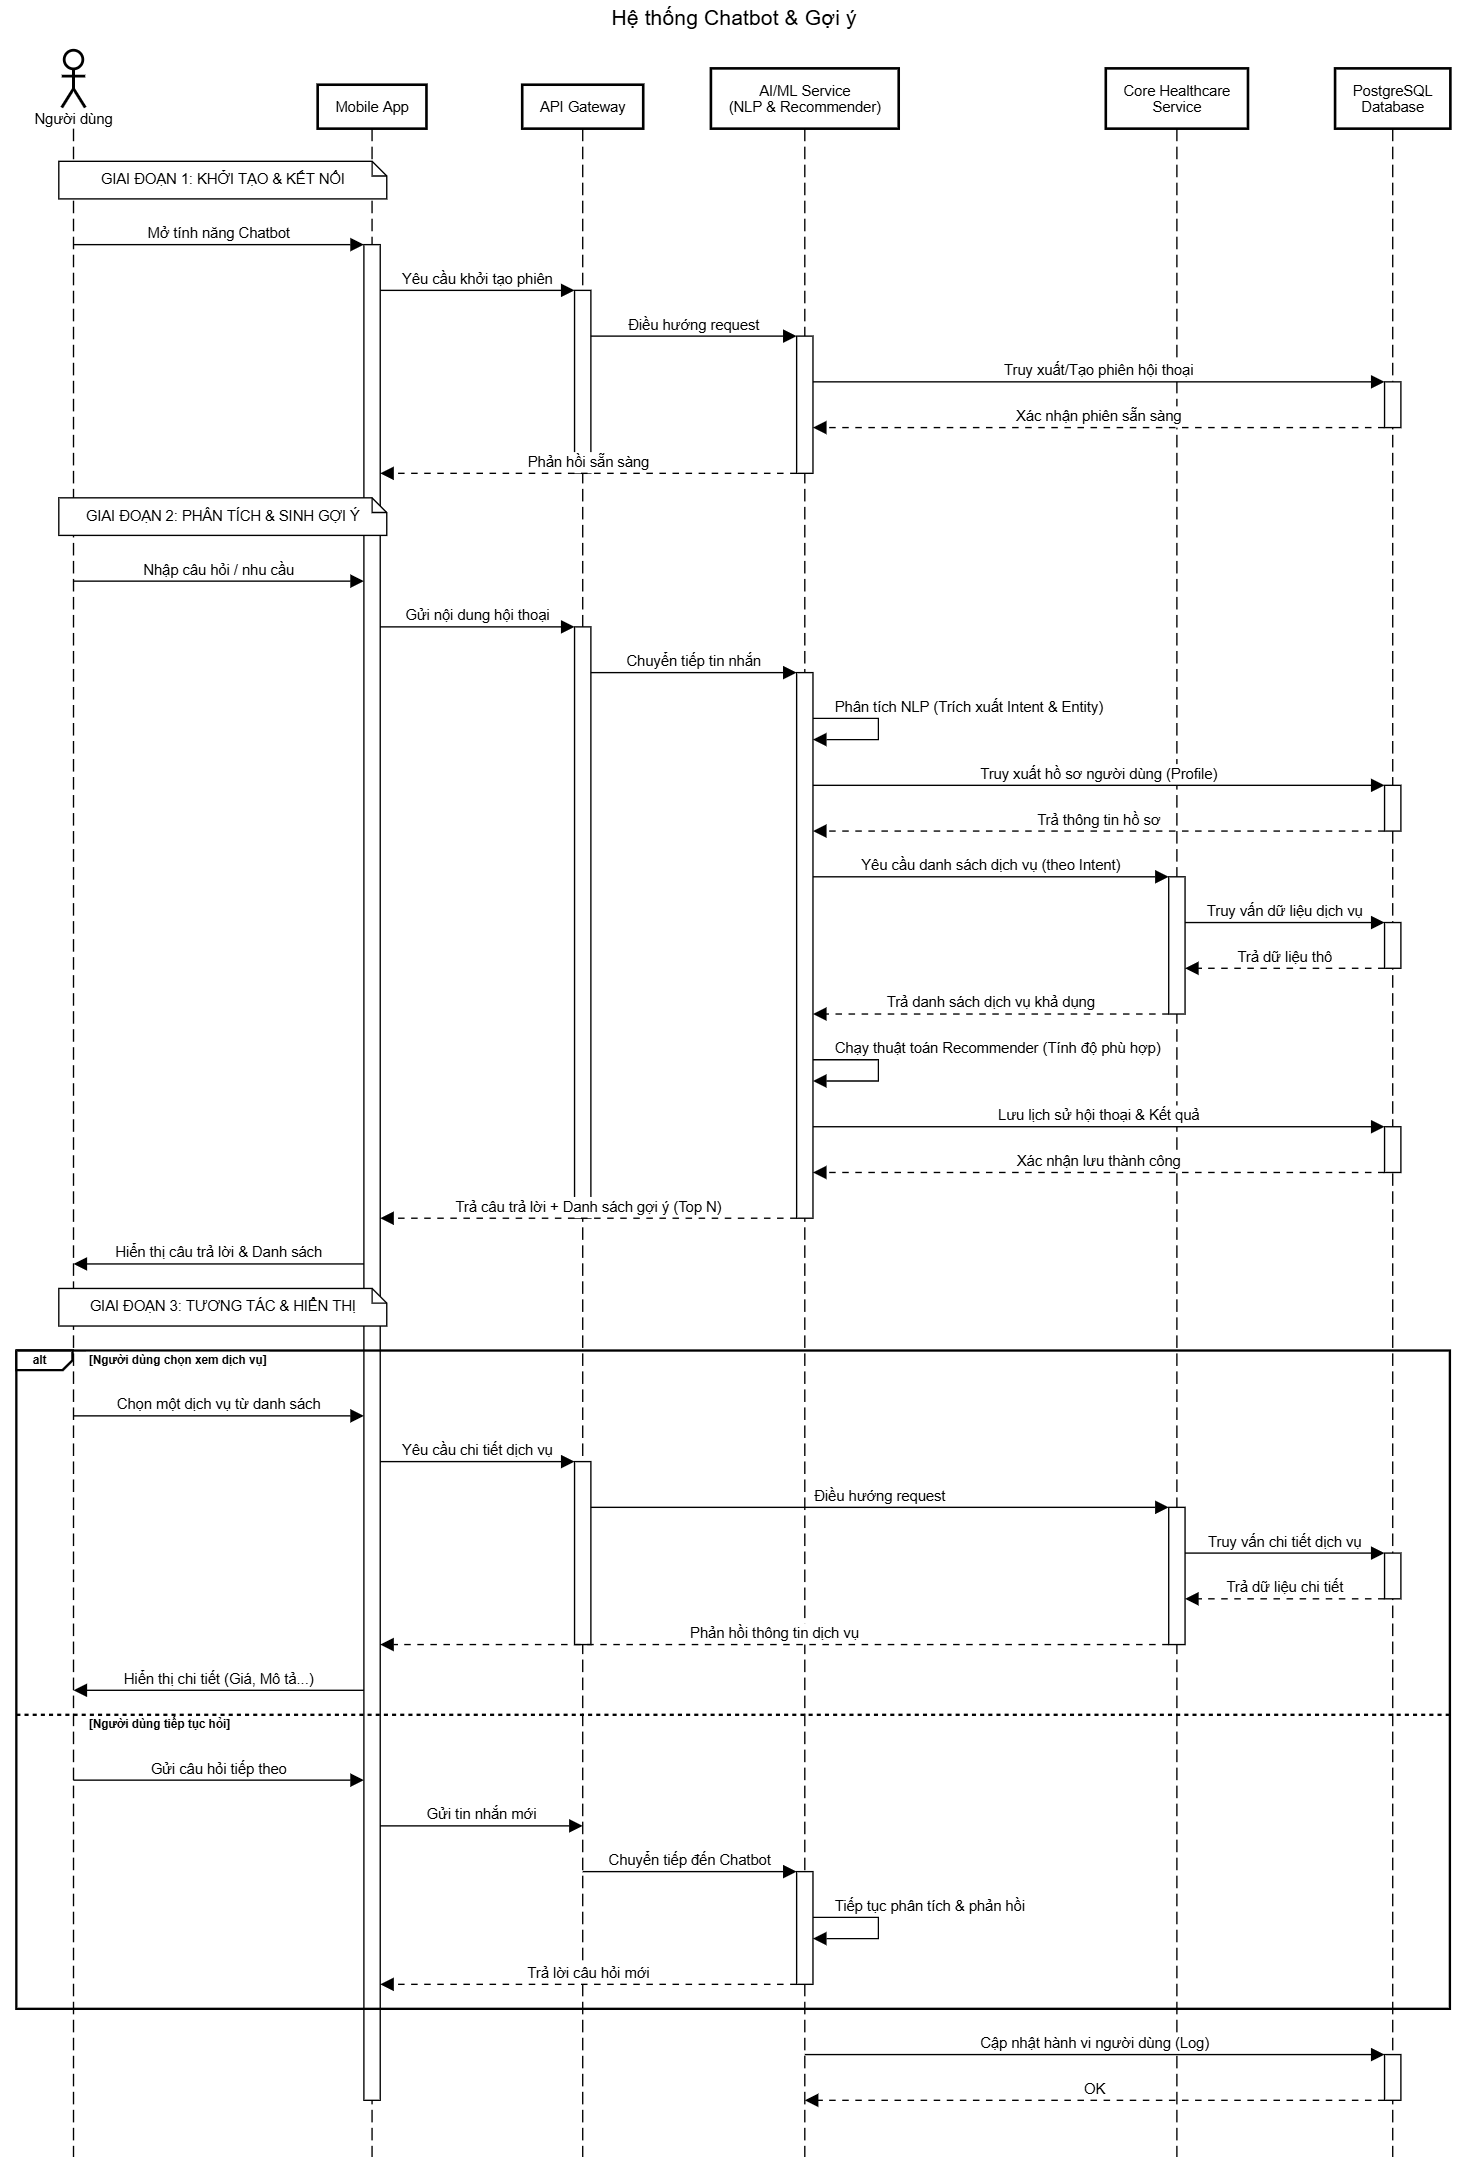
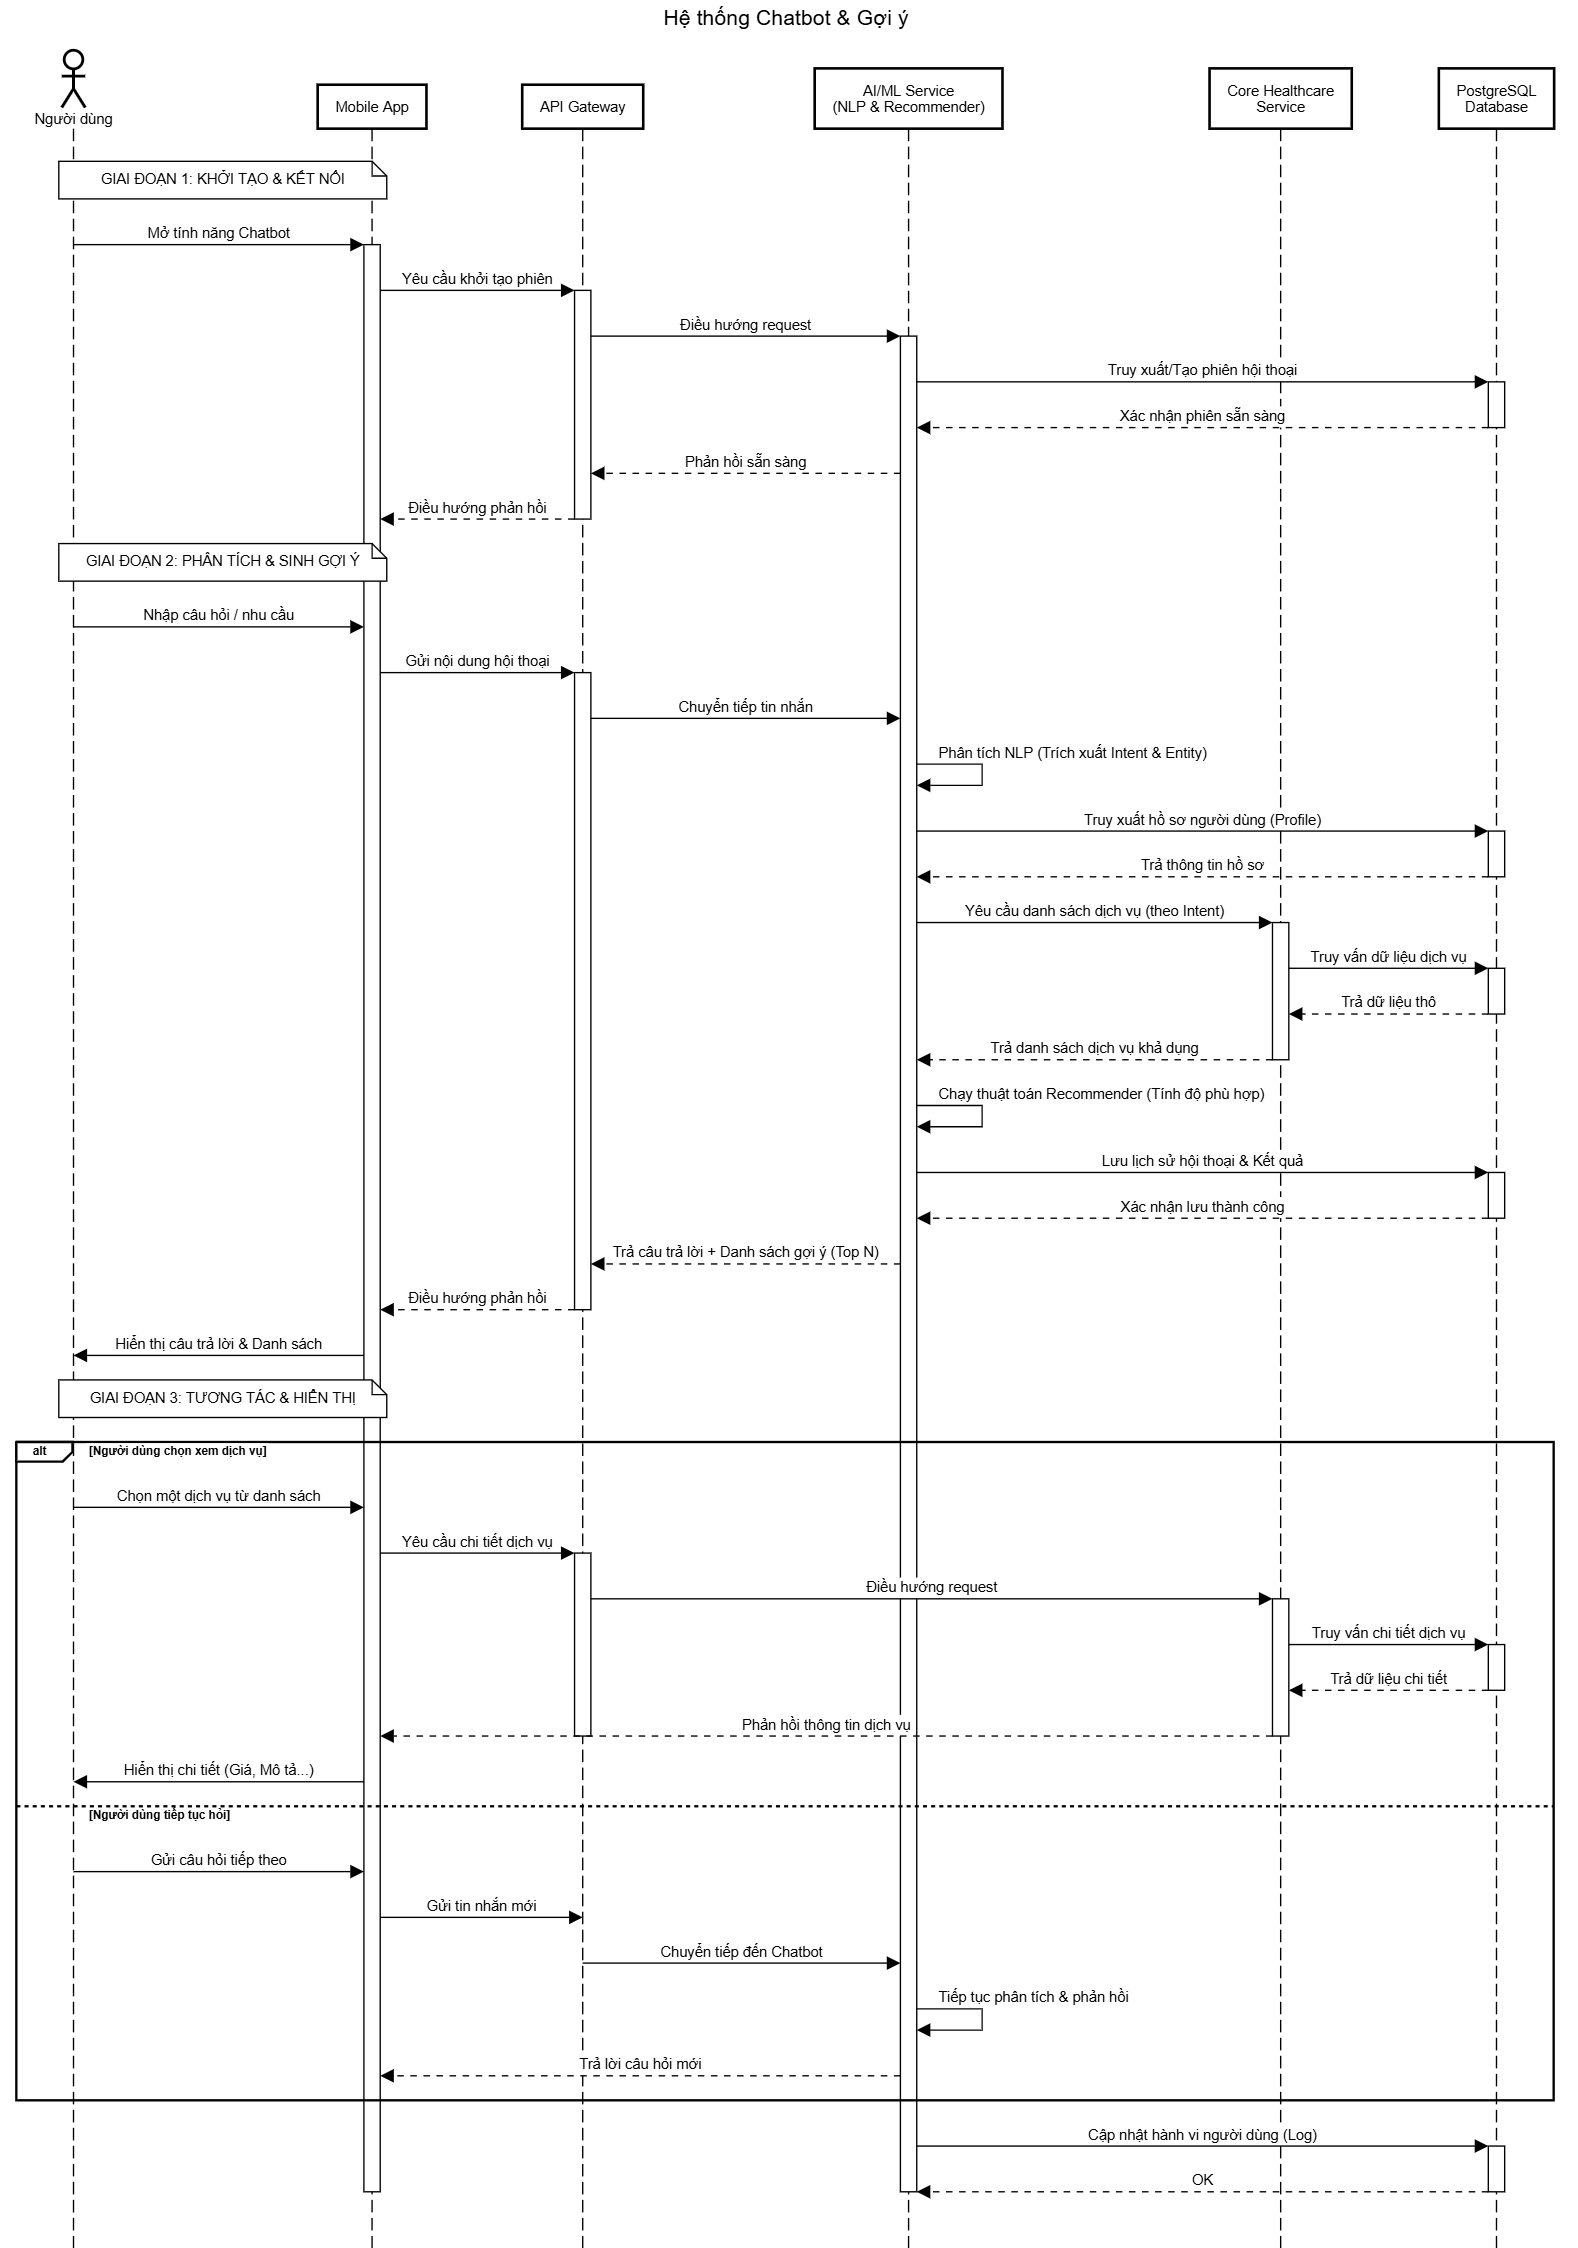
fix report

diff --git a/Report/Outro/TaiLieuThamKhao.tex b/Report/Outro/TaiLieuThamKhao.tex
@@ -1,40 +1,41 @@
-\begin{thebibliography}{00}
+\renewcommand{\bibname}{Tài liệu tham khảo}
 
+\begin{thebibliography}{99}
 % --- Nhóm Công nghệ ---
 \bibitem{flutter}
-Google, ``Flutter documentation,'' \textit{flutter.dev}. [Online]. Available: https://flutter.dev/docs.
+Google, ``Tài liệu Flutter,'' \textit{flutter.dev}. [Trực tuyến]. Truy cập: https://flutter.dev/docs.
 
 \bibitem{nestjs}
-NestJS, ``NestJS documentation,'' \textit{docs.nestjs.com}. [Online]. Available: https://docs.nestjs.com/.
+NestJS, ``Tài liệu NestJS,'' \textit{docs.nestjs.com}. [Trực tuyến]. Truy cập: https://docs.nestjs.com/.
 
 \bibitem{nextjs}
-Vercel, ``Next.js documentation,'' \textit{nextjs.org}. [Online]. Available: https://nextjs.org/docs.
+Vercel, ``Tài liệu Next.js,'' \textit{nextjs.org}. [Trực tuyến]. Truy cập: https://nextjs.org/docs.
 
 % --- Nhóm Kiến trúc ---
 \bibitem{microservices}
-M. Fowler, ``Microservices,'' \textit{martinfowler.com}, 2014. [Online]. Available: https://martinfowler.com/articles/microservices.html.
+M. Fowler, ``Kiến trúc Microservices,'' \textit{martinfowler.com}, 2014. [Trực tuyến]. Truy cập: https://martinfowler.com/articles/microservices.html.
 
 \bibitem{postgres}
-PostgreSQL Global Development Group, ``PostgreSQL 15 Documentation,'' \textit{postgresql.org}. [Online]. Available: https://www.postgresql.org/docs/15/.
+Nhóm Phát triển Toàn cầu PostgreSQL, ``Tài liệu PostgreSQL 15,'' \textit{postgresql.org}. [Trực tuyến]. Truy cập: https://www.postgresql.org/docs/15/.
 
 % --- Nhóm AI/NLP ---
 \bibitem{rag}
-P. Lewis \textit{et al.}, ``Retrieval-Augmented Generation for Knowledge-Intensive NLP Tasks,'' in \textit{Proc. Adv. Neural Inf. Process. Syst. (NeurIPS)}, 2020.
+P. Lewis \textit{và cộng sự}, ``Sinh văn bản tăng cường truy xuất cho các tác vụ NLP chuyên sâu về tri thức,'' trong \textit{Kỷ yếu Hội nghị Hệ thống Xử lý Thông tin Neural (NeurIPS)}, 2020.
 
 \bibitem{lora}
-E. J. Hu \textit{et al.}, ``LoRA: Low-Rank Adaptation of Large Language Models,'' \textit{arXiv preprint arXiv:2106.09685}, 2021.
+E. J. Hu \textit{và cộng sự}, ``LoRA: Điều chỉnh thứ hạng thấp của các mô hình ngôn ngữ lớn,'' \textit{arXiv preprint arXiv:2106.09685}, 2021.
 
 \bibitem{langchain}
-LangChain, ``LangChain documentation,'' \textit{python.langchain.com}. [Online]. Available: http://python.langchain.com.
+LangChain, ``Tài liệu LangChain,'' \textit{python.langchain.com}. [Trực tuyến]. Truy cập: http://python.langchain.com.
 
 \bibitem{peft}
-Hugging Face, ``PEFT: State-of-the-art Parameter-Efficient Fine-Tuning methods,'' \textit{huggingface.co}. [Online]. Available: https://huggingface.co/docs/peft.
+Hugging Face, ``PEFT: Phương pháp tinh chỉnh hiệu quả tham số tiên tiến,'' \textit{huggingface.co}. [Trực tuyến]. Truy cập: https://huggingface.co/docs/peft.
 
 % --- Nhóm Hệ thống tham khảo ---
 \bibitem{bookingcare}
-BookingCare, ``Nền tảng y tế sức khỏe toàn diện,'' \textit{bookingcare.vn}. [Online]. Available: https://bookingcare.vn/. [Truy cập: 10/2025].
+BookingCare, ``Nền tảng y tế sức khỏe toàn diện,'' \textit{bookingcare.vn}. [Trực tuyến]. Truy cập: https://bookingcare.vn/. [Truy cập: 10/2025].
 
 \bibitem{jiohealth}
-Jio Health, ``Jio Health Homepage,'' \textit{jiohealth.com}. [Online]. Available: https://jiohealth.com/. [Truy cập: 10/2025].
+Jio Health, ``Trang chủ Jio Health,'' \textit{jiohealth.com}. [Trực tuyến]. Truy cập: https://jiohealth.com/. [Truy cập: 10/2025].
 
 \end{thebibliography}

diff --git a/Report/main.tex b/Report/main.tex
@@ -58,7 +58,6 @@
 \usepackage{tocloft}
 
 \usepackage{appendix}
-
 % algorithm2e configuration (replacing algorithm/algorithmic)
 \SetKwInput{Input}{Input:}
 \SetKwInput{Output}{Output:}
@@ -67,6 +66,7 @@
 \usepackage[normalem]{ulem}
 \usepackage{lastpage}   % Load this LAST
 
+\renewcommand{\bibname}{Tài liệu tham khảo}
 
 \newtheorem{theorem}{{\bf Định lý}}
 \newtheorem{property}{{\bf Tính chất}}
@@ -175,7 +175,6 @@ morekeywords={}
 
 \renewcommand{\headrulewidth}{0.3pt}
 \renewcommand{\footrulewidth}{0.3pt}
-
 % Apply the same footer to the plain page style (used by chapters)
 % (Moved to end of preamble)
 \setlength\parindent{0pt}